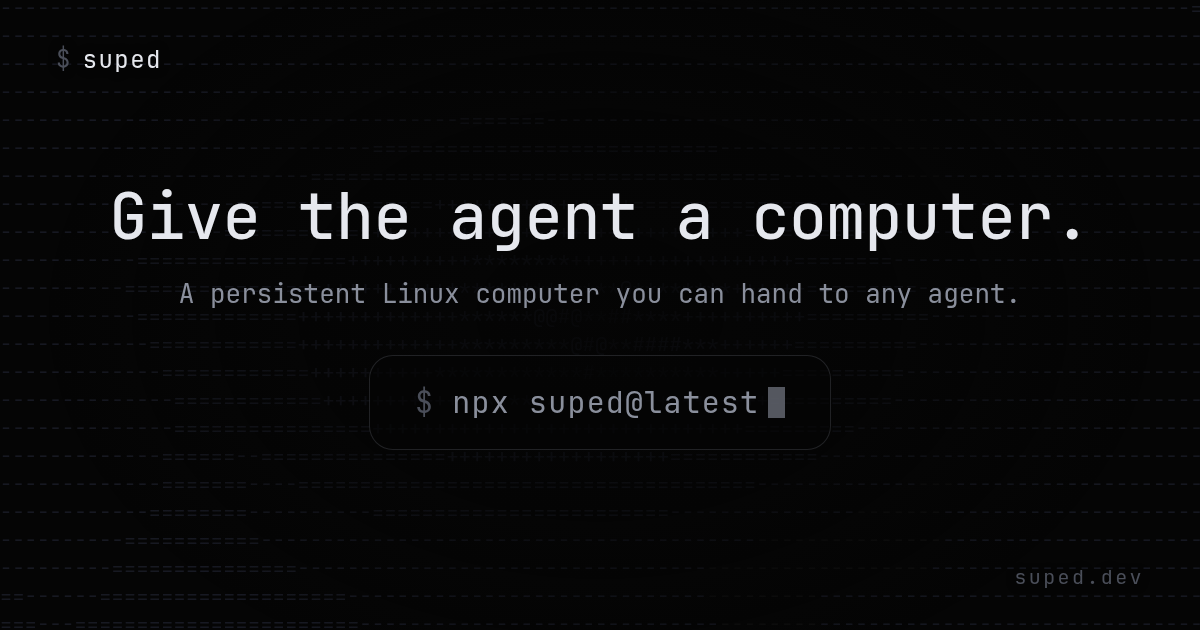
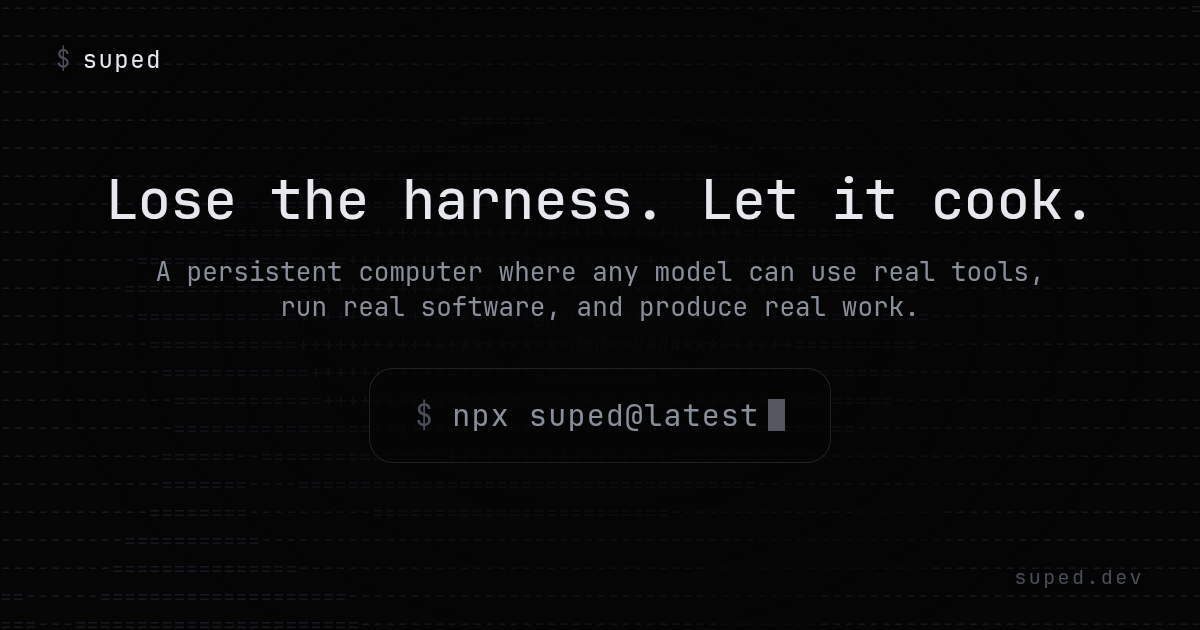
Tagline: Lose the harness. Let it cook.
New hero and subline, the "No" list replaces the premise prose, footer and
default title/description follow, and the OG image is re-rendered.

Changed region(s): [[0.0925, 0.2714, 0.925, 0.5127], [0.3392, 0.6032, 0.6783, 0.6937]]

diff --git a/src/styles/global.css b/src/styles/global.css
@@ -240,6 +240,17 @@ a:hover { text-decoration: underline; text-underline-offset: 0.2em; text-decorat
 }
 .steps strong { color: var(--fg-strong); font-weight: 500; }
 
+.nos { list-style: none; margin: 1.4rem 0; padding: 0; }
+.nos li { position: relative; padding: 0.2rem 0 0.2rem 1.6rem; color: var(--fg); }
+.nos li::before {
+  content: "✕";
+  position: absolute;
+  left: 0;
+  top: 0.2rem;
+  color: var(--dim);
+  font-size: 0.85em;
+}
+
 @media (max-width: 760px) {
   .section { grid-template-columns: 1fr; gap: 1rem; padding: 1.8rem 1.4rem; }
   .sections { padding: 0 1rem 3rem; }
